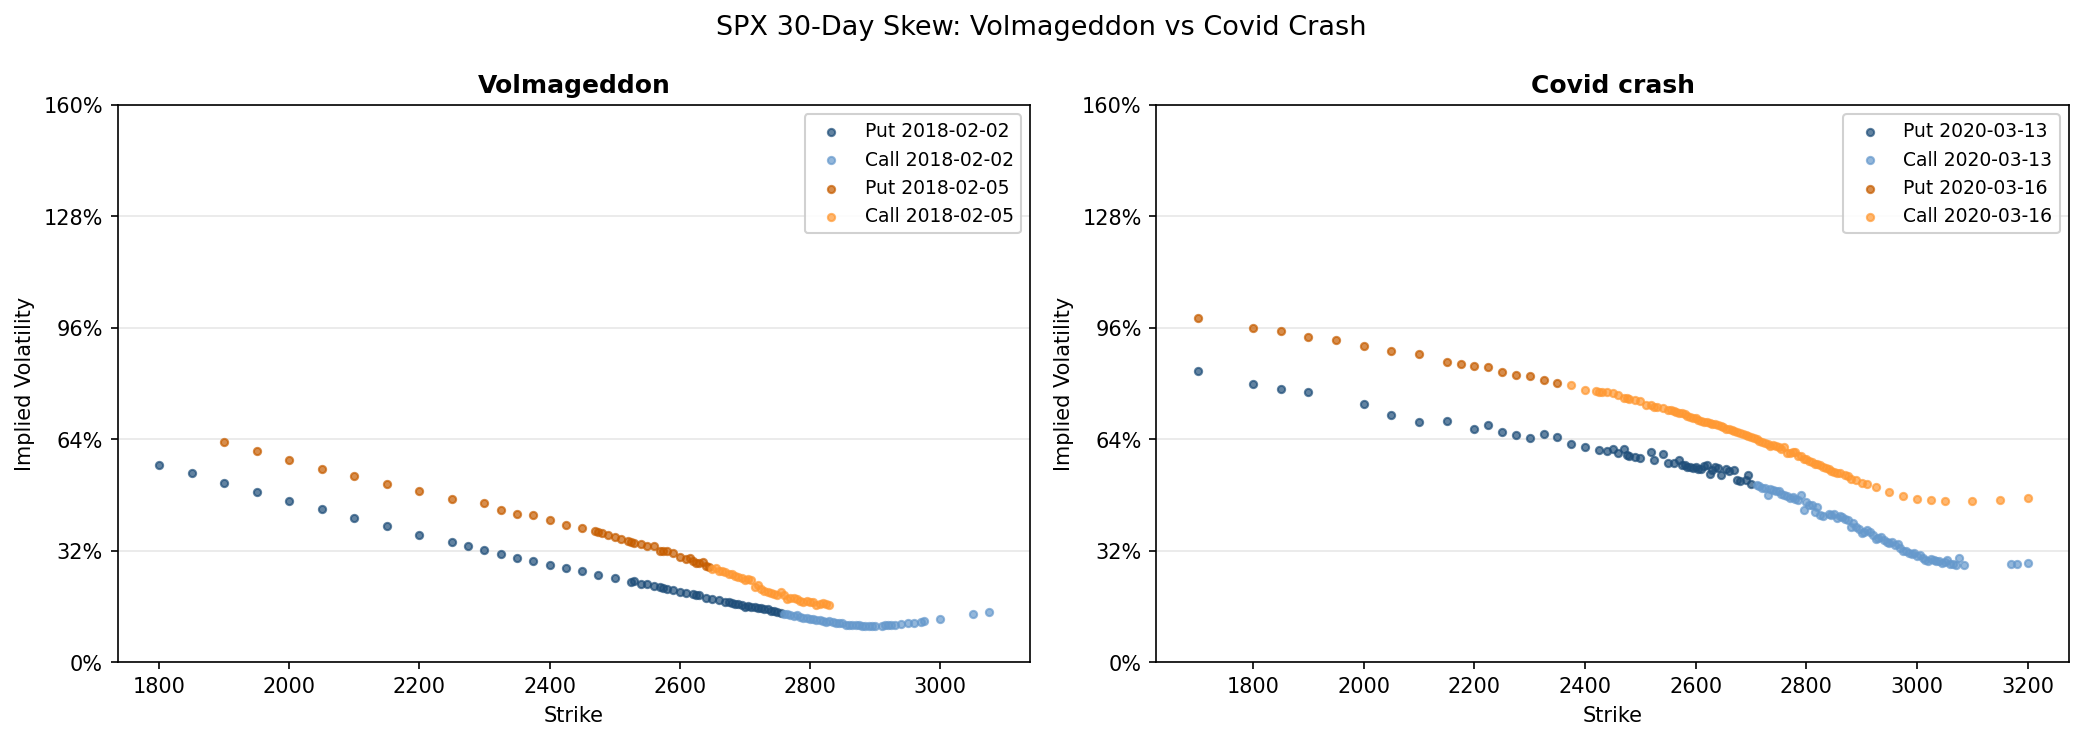
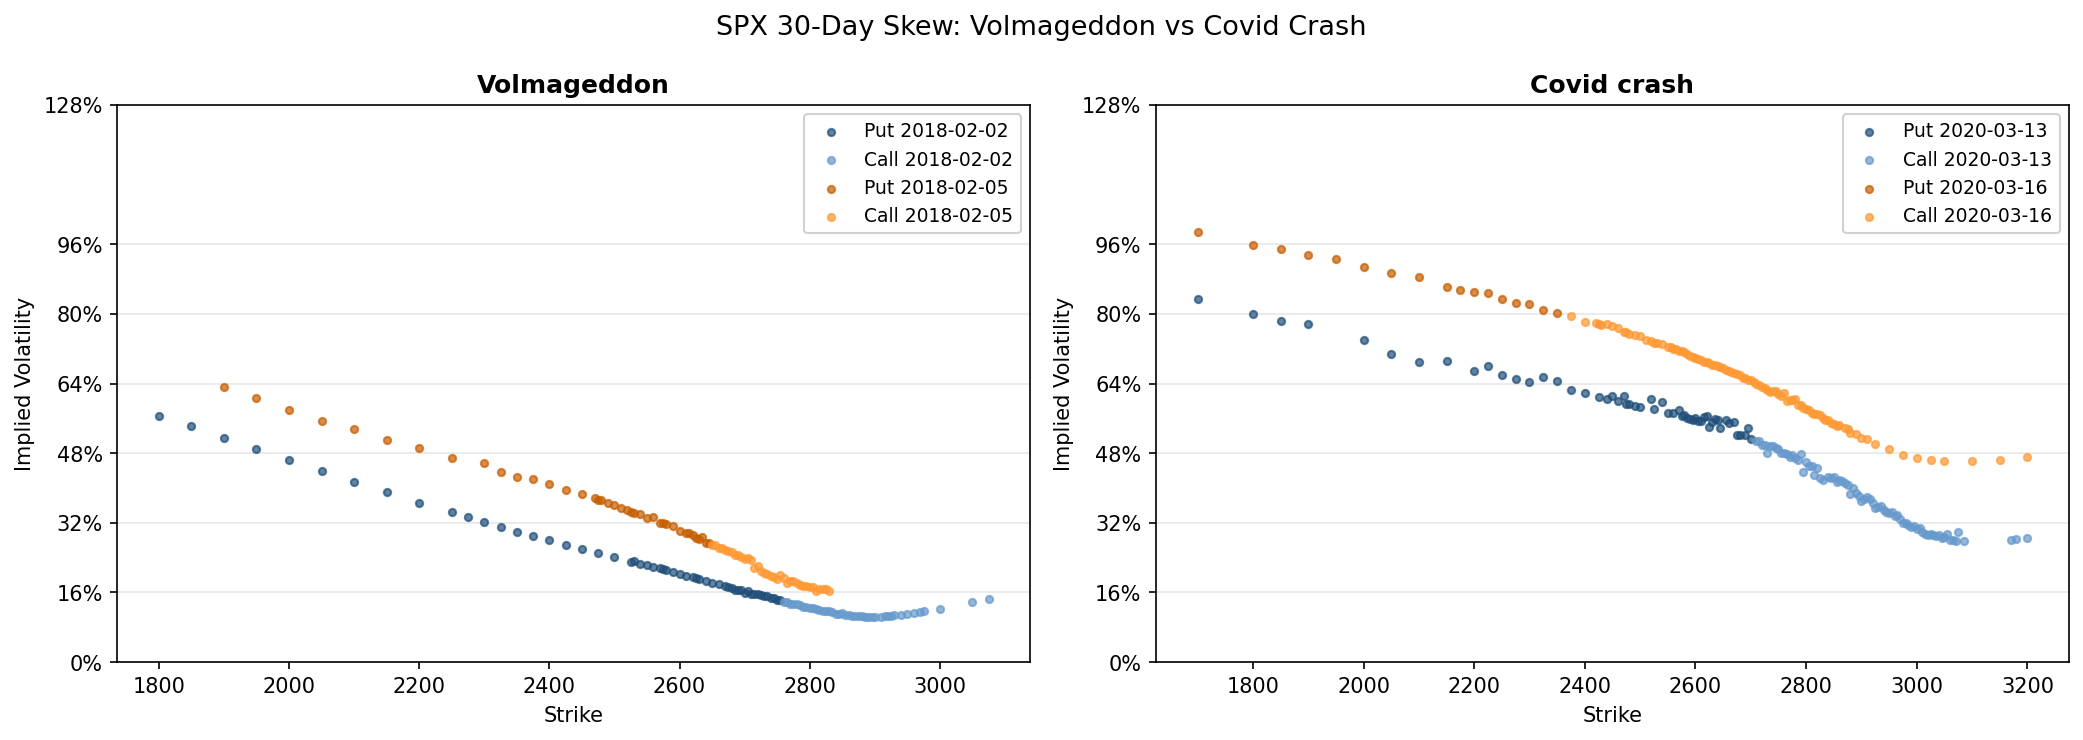
push_hopefullyfew

diff --git a/src/event_studies_nd2.py b/src/event_studies_nd2.py
@@ -44,6 +44,19 @@ EVENTS = [
 ]
 
 
+# Source: CBOE VIX_History.csv (https://cdn.cboe.com/api/global/us_indices/daily_prices/VIX_History.csv)
+# Cross-checked against:
+#  - Cboe research paper "After the Volpocalypse" (2018-02-05 = 37.32)
+#  - FRED series VIXCLS (https://fred.stlouisfed.org/series/VIXCLS)
+#  - Macroption historical VIX records
+REFERENCE_VIX_CLOSE = {
+    "2018-02-02": 17.31,
+    "2018-02-05": 37.32,
+    "2020-03-13": 57.83,
+    "2020-03-16": 82.69,
+}
+
+
 def build_snapshot_for_day(day_df: pd.DataFrame, quote_dt: pd.Timestamp,
                            rfr_decimal: float, vix_actual: float | None) -> dict:
     """Build the {date, payload} dict that compute_vix_for_snapshot expects.
@@ -98,8 +111,11 @@ def process_day(snap: dict, cboe_vix: dict) -> dict:
     if res is None:
         raise RuntimeError(f"compute_vix_for_snapshot returned None for {snap['date']}")
 
-    # CBOE VIX preferred over data-source VIX, but accept either.
-    if snap["date"] in cboe_vix:
+    # Priority: hard-coded reference closes (deterministic) → live CBOE
+    # CSV (when the endpoint is available) → data-source VIX.spot.
+    if snap["date"] in REFERENCE_VIX_CLOSE:
+        res["vix_actual"] = REFERENCE_VIX_CLOSE[snap["date"]]
+    elif snap["date"] in cboe_vix:
         res["vix_actual"] = cboe_vix[snap["date"]]
     elif payload.get("VIX", {}).get("spot") is not None:
         res["vix_actual"] = payload["VIX"]["spot"]
@@ -203,9 +219,9 @@ def _plot_skew_panel(ax, t0_res: dict, t1_res: dict, t0_str: str, t1_str: str,
         ys = [skew[k] for k in ks]
         ax.scatter(ks, ys, s=msize, color=color, alpha=0.7, label=label, zorder=2)
 
-    ax.set_yticks([0, 32, 64, 96, 128, 160])
-    ax.set_yticklabels(["0%", "32%", "64%", "96%", "128%", "160%"])
-    ax.set_ylim(0, 160)
+    ax.set_yticks([0, 16, 32, 48, 64, 80, 96, 128])
+    ax.set_yticklabels(["0%", "16%", "32%", "48%", "64%", "80%", "96%", "128%"])
+    ax.set_ylim(0, 128)
     ax.set_xlabel("Strike")
     ax.set_ylabel("Implied Volatility")
     ax.set_title(title, fontsize=12, fontweight="bold")

diff --git a/src/spx_local_loader.py b/src/spx_local_loader.py
@@ -79,9 +79,27 @@ def load_spx_options(data_dir=None, quote_dates=None):
             f"No SPX EOD .txt files found under {data_dir}. "
             f"Expected files matching spx_eod_*.txt at any depth."
         )
+
+    # File-level filter: when quote_dates is supplied, derive the YYYYMM
+    # set from the requested days and keep only files matching
+    # spx_eod_YYYYMM.txt. Avoids reading 20+ months of data when we only
+    # need the four event-study days.
+    if quote_dates is not None:
+        target_yyyymm = set()
+        for d in quote_dates:
+            ts = pd.to_datetime(d)
+            target_yyyymm.add(f"{ts.year:04d}{ts.month:02d}")
+        files = [f for f in files
+                 if any(f.endswith(f"spx_eod_{yyyymm}.txt") for yyyymm in target_yyyymm)]
+        if not files:
+            raise FileNotFoundError(
+                f"quote_dates {quote_dates} maps to YYYYMM set {target_yyyymm} "
+                f"but no matching spx_eod_YYYYMM.txt files found under {data_dir}"
+            )
+
     dfs = []
     for f in files:
-        df = pd.read_csv(f)
+        df = pd.read_csv(f, low_memory=False)
         df.columns = [c.strip().strip("[]") for c in df.columns]
         for col in ["QUOTE_DATE", "EXPIRE_DATE"]:
             df[col] = df[col].str.strip()
